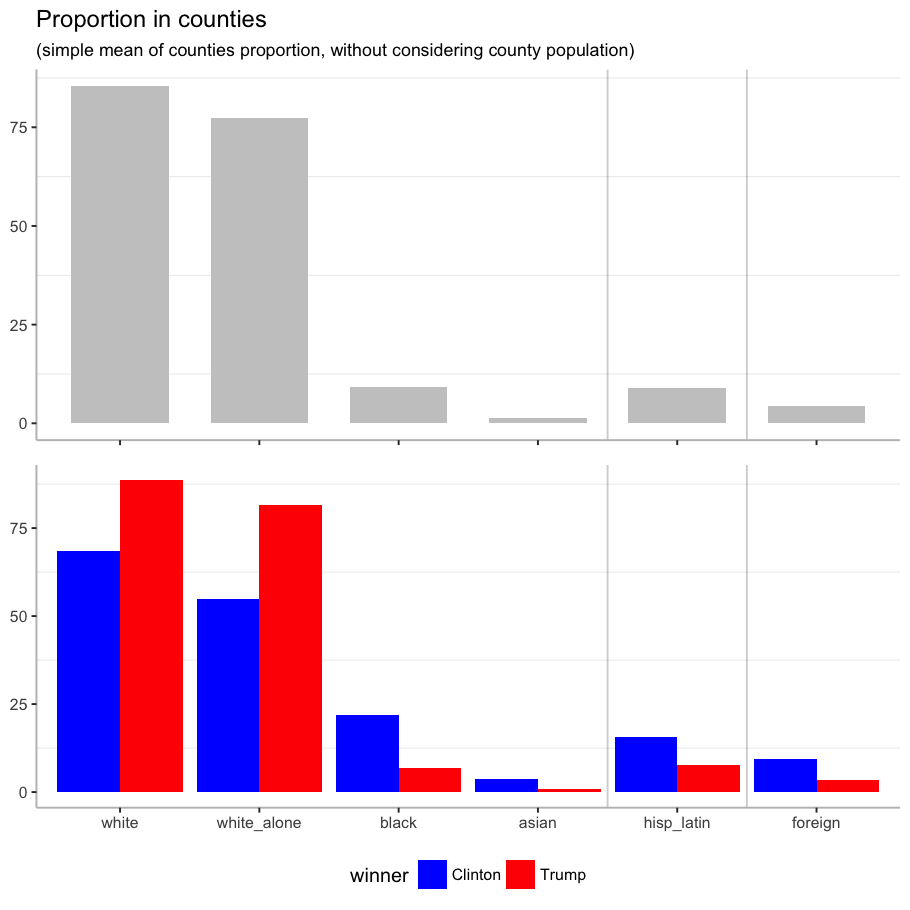
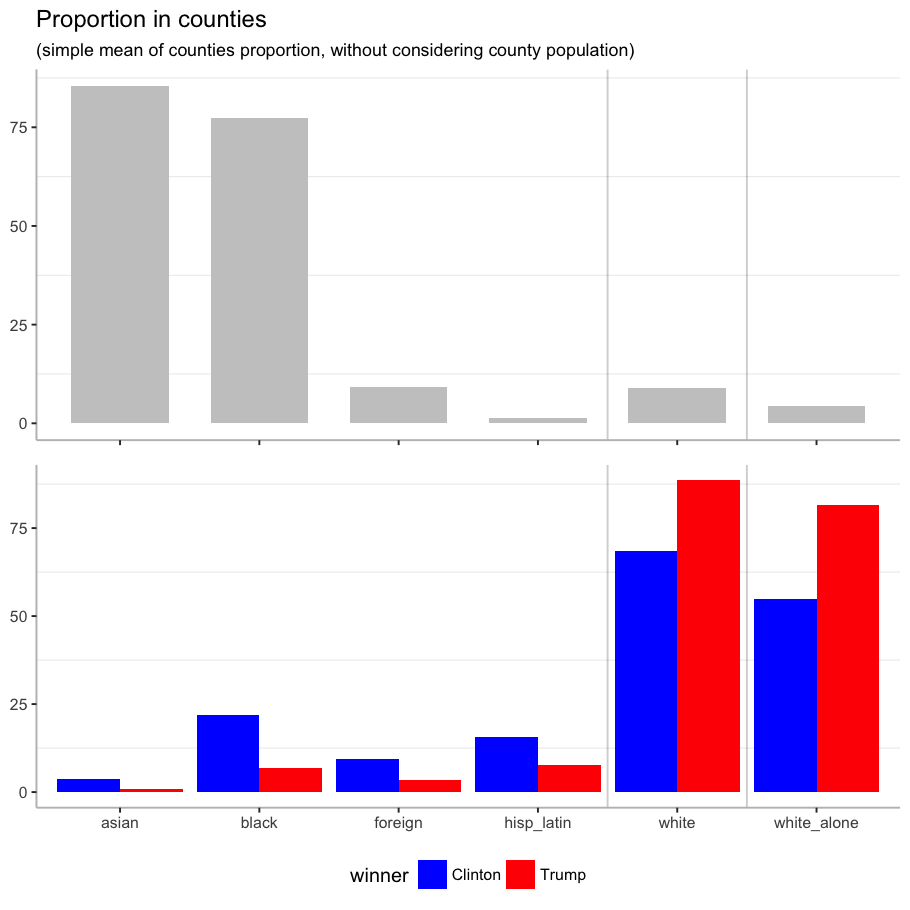
replave reshape2::melt for tidyr::gather because I'm getting the hang of tidyverse!

diff --git a/_posts/2017-01-23-what-demographics-voted-for-trump.md b/_posts/2017-01-23-what-demographics-voted-for-trump.md
@@ -145,8 +145,6 @@ Then I generate the same plot by candidate.
 
 
 ```r
-library(reshape2)
-
 by_candidate <- votes %>%
   group_by(pref_cand_T) %>%
   summarize(
@@ -156,7 +154,7 @@ by_candidate <- votes %>%
     asian       = mean(asian),
     hisp_latin  = mean(hisp_latin),
     foreign     = mean(foreign)) %>%
-    melt(id.vars = 'pref_cand_T') %>%
+    gather(variable, value, -pref_cand_T) %>%
   ggplot() +
     geom_bar(aes(x = variable, y = value, fill = pref_cand_T),
              stat = 'identity', position = 'dodge') +
